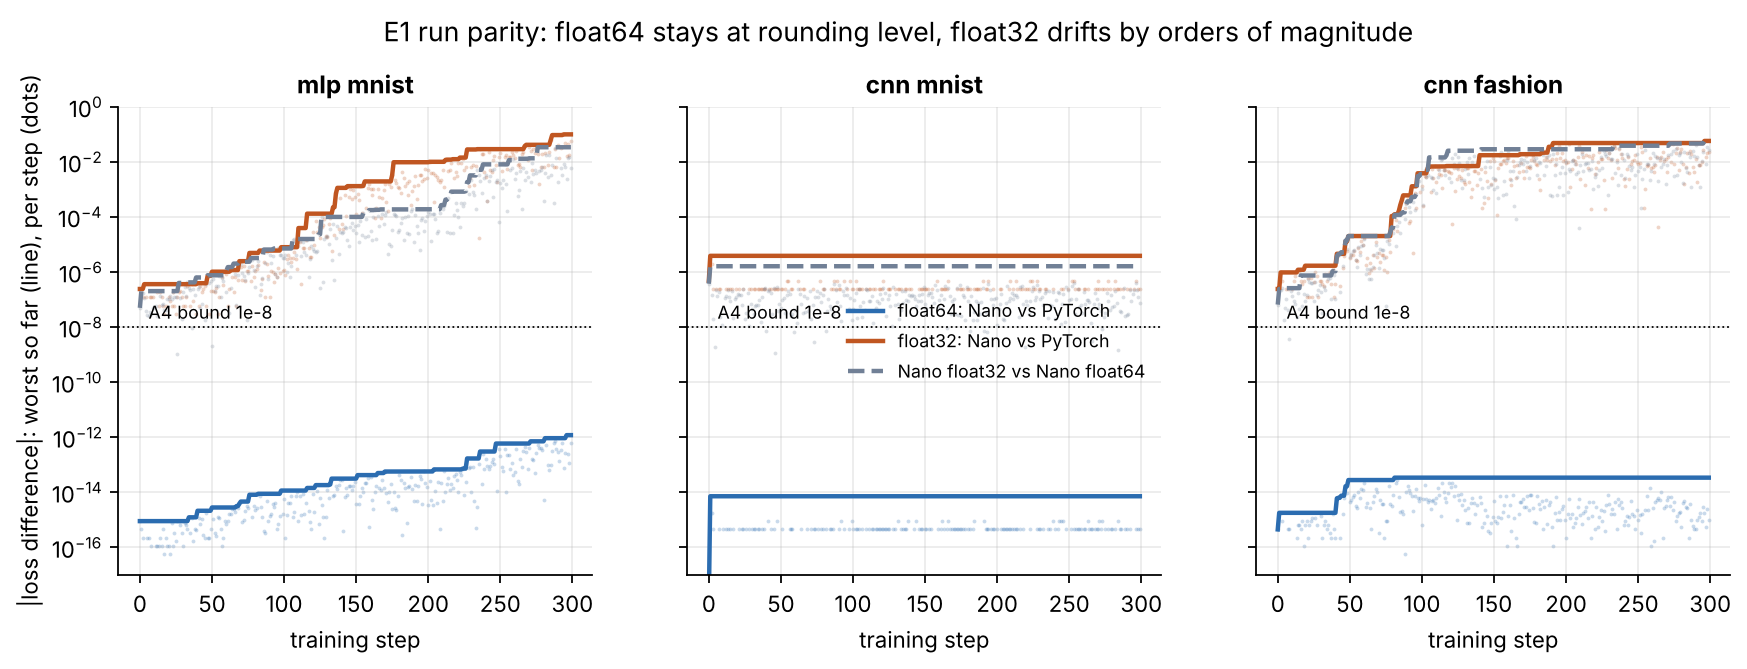
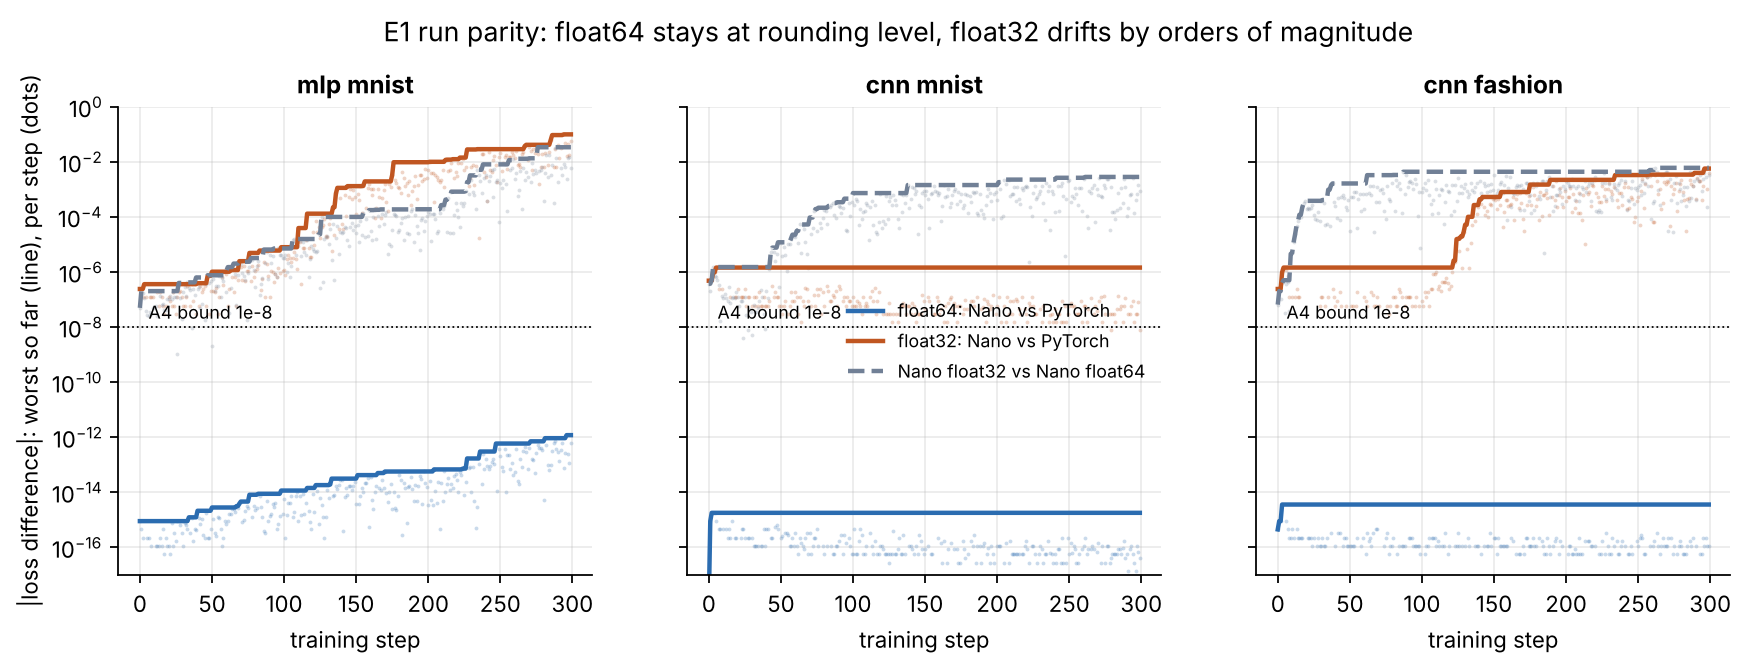
E1 CNN parity at lr 0.01 (0.05 killed every ReLU, D-07); E6 compares nonlinear ops with theory; report formatting
CNN now reaches 95.0% (MNIST) / 83.5% (Fashion) during the parity run with float64
loss parity ~1e-15. E6 measured optimum 1.2e-5 vs theory 8.7e-6 (float64).

Claude-Session: https://claude.ai/code/session_0167vbQ3SCYivtCTL22GZ5wF

diff --git a/report/build.py b/report/build.py
@@ -27,6 +27,8 @@ def f(x, digits: int = 2) -> str:
         return f"{x:,}"
     if x == 0:
         return "0"
+    if math.isfinite(x) and float(x).is_integer() and 1 <= abs(x) < 1e5:
+        return f"{int(x):,}"
     if not math.isfinite(x):
         return "∞" if x > 0 else ("-∞" if x < 0 else "NaN")
     if abs(x) < 1e-3 or abs(x) >= 1e5:
@@ -40,6 +42,14 @@ def ci(m: dict, digits: int = 3) -> str:
     c = m.get("ci")
     s = f(m["value"], digits)
     return f"{s} [{f(c[0], digits)}, {f(c[1], digits)}]" if c else s
+
+
+def ci_pp(m: dict) -> str:
+    """A difference in accuracy, shown in percentage points."""
+    if not m or m.get("value") is None:
+        return "n/a"
+    lo, hi = m["ci"]
+    return f"{100 * m['value']:+.2f} pp [{100 * lo:+.2f}, {100 * hi:+.2f}]"
 
 
 def pct(x) -> str:
@@ -190,7 +200,7 @@ section 2 lists each op's max error.
 correct, so the model still trains. A whole-model gradcheck notices *that* something is
 wrong (large relative error) but not *where*. The layerwise checker re-runs every tape node's
 op in isolation against finite differences, in forward order, and names the first one that
-disagrees. Result: **{f(get('E4', 'metrics', 'bugs_located', 'value'))} of 5 located**; the bug-free control passes
+disagrees. Result: **{int(get('E4', 'metrics', 'bugs_located', 'value'))} of 5 located**; the bug-free control passes
 every op.
 
 {table(["Bug", "Injected defect", "Expected", "Checker names", "Whole-model rel. err", "Located"], rows)}
@@ -308,11 +318,11 @@ def e3() -> str:
     rows = [[r["optimizer"], r["init"], r["schedule"], ci(r["test_acc"]),
              f"{f(r['steps_to_target']['value'])} [{f(r['steps_to_target']['iqr'][0])}, {f(r['steps_to_target']['iqr'][1])}]",
              r["n_censored"]] for r in sorted(t["configs"], key=lambda r: -r["test_acc"]["value"])]
-    con = [[c["factor"], f"{c['level']} − {c['reference']}", ci(c["acc_diff"], 4),
-            ci(c.get("acc_diff_seed_cluster"), 4), f(c.get("p_sign_flip_seed_level")),
+    con = [[c["factor"], f"{c['level']} − {c['reference']}", ci_pp(c["acc_diff"]),
+            ci_pp(c.get("acc_diff_seed_cluster")), f(c.get("p_sign_flip_seed_level")),
             "**yes**" if c["separated"] else "no"] for c in t["contrasts"]]
     sep = [c for c in t["contrasts"] if c["separated"]]
-    mattered = "; ".join(f"{c['level']} vs {c['reference']} ({c['factor']}): {f(c['acc_diff']['value'] * 100, 2)} points"
+    mattered = "; ".join(f"{c['level']} vs {c['reference']} ({c['factor']}): {100 * c['acc_diff']['value']:+.2f} points"
                          for c in sorted(sep, key=lambda c: -abs(c["acc_diff"]["value"]))) or "no contrast was separated"
     return f"""## 5. Optimizers, inits and schedules (E3)
 
@@ -348,7 +358,8 @@ def failures() -> str:
     F = X.get("FAILURES", {})
     t = F.get("tables", {})
     f2, f3, f4 = t.get("F2", {}), t.get("F3", {}), t.get("F4", {})
-    f3rows = [[lr, ci(r["dead_final"])] for lr, r in f3.get("results", {}).items()]
+    f3rows = [[lr, ci(r["dead_final"]) if r["dead_final"].get("value") is not None else "—",
+               f"{r.get('diverged_seeds', 0)}/3"] for lr, r in f3.get("results", {}).items()]
     return f"""## 8. Failure gallery
 
 Every way the engine and the networks go wrong, measured.
@@ -366,7 +377,12 @@ The fused, max-shifted version stays finite at every scale tested (derivation D7
 **F3. Dead ReLUs at high learning rate.** A 4 × 128 ReLU MLP (He init), plain SGD, {f3.get('steps')} steps.
 Fraction of units dead on 512 training images (worst layer), mean of 3 seeds [bootstrap CI]:
 
-{table(["Learning rate", "Dead fraction at end"], f3rows)}
+{table(["Learning rate", "Dead fraction at end (surviving seeds)", "Seeds whose loss became NaN"], f3rows)}
+
+At lr 0.4 about half the units in the worst layer are permanently dead, yet the loss stays finite and the
+network keeps learning with what is left; one step further (0.5) every seed diverges within the first steps.
+The same failure appeared unplanned in E1, where a CNN at lr 0.05 with momentum lost every ReLU
+([DEVIATIONS.md](../docs/DEVIATIONS.md), D-07).
 
 {fig('figures/f3_dead_relus.png', 'dead ReLUs')}
 

diff --git a/experiments/fd_error.py b/experiments/fd_error.py
@@ -20,6 +20,7 @@ from nano.gradcheck import H_DEFAULT, numerical_grad, rel_error
 
 OPS = ["exp", "tanh", "sigmoid", "log", "matmul", "logsumexp", "softmax_cross_entropy", "conv2d"]
 GRID = {"float64": np.logspace(-1, -13, 25), "float32": np.logspace(-0.5, -7, 14)}
+LINEAR = {"matmul", "conv2d"}
 EPS = {"float64": np.finfo(np.float64).eps, "float32": np.finfo(np.float32).eps}
 
 
@@ -51,8 +52,11 @@ def main():
             table[c.name][dname] = {"h": GRID[dname].tolist(), "rel_err": errs,
                                     "best_h": float(GRID[dname][best]), "best_err": float(errs[best])}
             print(f"  {c.name:22s} {dname}: best h {GRID[dname][best]:.1e}  err {errs[best]:.1e}", flush=True)
-    best64 = np.array([table[o]["float64"]["best_h"] for o in table])
-    best32 = np.array([table[o]["float32"]["best_h"] for o in table])
+    # linear ops (matmul, conv2d) have no truncation error, so their best h is just the largest h in the grid:
+    # the geometric mean that is compared with theory uses the nonlinear ops only
+    nonlinear = [o for o in table if o not in LINEAR]
+    best64 = np.array([table[o]["float64"]["best_h"] for o in nonlinear])
+    best32 = np.array([table[o]["float32"]["best_h"] for o in nonlinear])
     at_default = [float(np.interp(np.log10(H_DEFAULT), np.log10(table[o]["float64"]["h"][::-1]),
                                   table[o]["float64"]["rel_err"][::-1])) for o in table]
     fig = figure(table)
@@ -60,8 +64,10 @@ def main():
         "title": "E6 finite-difference error vs step size h",
         "config": {"ops": OPS, "grid": {k: v.tolist() for k, v in GRID.items()}, "reference": "float64 analytic VJP"},
         "metrics": {
-            "best_h_float64_geomean": evalkit.metric(float(10 ** np.mean(np.log10(best64))), n=len(best64)),
-            "best_h_float32_geomean": evalkit.metric(float(10 ** np.mean(np.log10(best32))), n=len(best32)),
+            "best_h_float64_geomean": evalkit.metric(float(10 ** np.mean(np.log10(best64))), n=len(best64),
+                                                     method="geometric mean over nonlinear ops"),
+            "best_h_float32_geomean": evalkit.metric(float(10 ** np.mean(np.log10(best32))), n=len(best32),
+                                                     method="geometric mean over nonlinear ops"),
             "theory_h_float64": evalkit.metric(float((3 * EPS["float64"]) ** (1 / 3)), method="(3 eps)^(1/3)"),
             "theory_h_float32": evalkit.metric(float((3 * EPS["float32"]) ** (1 / 3)), method="(3 eps)^(1/3)"),
             "max_err_at_default_h": evalkit.metric(max(at_default), n=len(at_default), method=f"h = {H_DEFAULT:g}"),

diff --git a/experiments/parity.py b/experiments/parity.py
@@ -65,8 +65,8 @@ def make_cnn(rng):
 
 SETUPS = {  # name: (builder, dataset, flat, batch, lr)
     "mlp_mnist": (make_mlp, "mnist", True, 64, 0.05),
-    "cnn_mnist": (make_cnn, "mnist", False, 64, 0.05),
-    "cnn_fashion": (make_cnn, "fashion", False, 64, 0.05),
+    "cnn_mnist": (make_cnn, "mnist", False, 64, 0.01),  # 0.05 killed every ReLU (docs/DEVIATIONS.md D-07)
+    "cnn_fashion": (make_cnn, "fashion", False, 64, 0.01),
 }
 
 
@@ -145,7 +145,7 @@ def main():
     }
     evalkit.write_fragment("E1", {
         "title": "E1 parity vs PyTorch: per op, per step, per run; float64 and float32",
-        "config": {"run_steps": RUN_STEPS, "optimizer": "SGD momentum 0.9", "seed": SEED, "torch_threads": 1,
+        "config": {"run_steps": RUN_STEPS, "optimizer": "SGD momentum 0.9 (lr per setup below)", "seed": SEED, "torch_threads": 1,
                    "setups": {k: {"dataset": v[1], "batch": v[3], "lr": v[4]} for k, v in SETUPS.items()}},
         "metrics": metrics, "tables": {"ops": ops, "runs": runs}, "figures": figures,
         "runtime_s": time.perf_counter() - t0,

diff --git a/report/REPORT.md b/report/REPORT.md
@@ -9,8 +9,8 @@ format:
 
 # Nano: a NumPy neural engine, verified and then broken on purpose
 
-*Project 1A. Generated from [`results.json`](results.json) (schema 1.0, commit `e021997a98`,
-2026-11-06T10:09:59+00:00). Hardware: Intel(R) Xeon(R) Processor @ 2.10GHz, 4 cores, 15.7 GB RAM, Linux 6.18.44-fc-v242;
+*Project 1A. Generated from [`results.json`](results.json) (schema 1.0, commit `634f287fd4`,
+2026-11-06T10:12:04+00:00). Hardware: Intel(R) Xeon(R) Processor @ 2.10GHz, 4 cores, 15.7 GB RAM, Linux 6.18.44-fc-v242;
 Python 3.13.18, NumPy 2.5.3 (scipy-openblas 0.3.34.106.0), PyTorch 2.15.0 (oracle only).*
 
 ## Acceptance criteria
@@ -72,8 +72,8 @@ that is the drift a float32 "matches PyTorch" claim has to live with, shown rath
 | Setup | f64: 1-step param diff | f64: max loss diff (300 steps) | f32: 1-step param diff | f32: max loss diff | Nano f32 vs Nano f64 | test acc. after run (f64) |
 |---|---|---|---|---|---|---|
 | mlp mnist | 5.55e-17 | 1.18e-12 | 2.98e-8 | 0.0982 | 0.0335 | 93.6% |
-| cnn mnist | 1.11e-16 | 7.11e-15 | 7.45e-8 | 3.81e-6 | 1.60e-6 | 11.3% |
-| cnn fashion | 1.11e-16 | 3.36e-14 | 1.19e-7 | 0.0567 | 0.0557 | 77.7% |
+| cnn mnist | 1.11e-16 | 1.78e-15 | 2.98e-8 | 1.43e-6 | 0.0028 | 95.0% |
+| cnn fashion | 1.11e-16 | 3.55e-15 | 1.19e-7 | 0.00563 | 0.00599 | 83.5% |
 
 ![float32 drift](figures/e1_float32_drift.png)
 
@@ -131,7 +131,7 @@ section 2 lists each op's max error.
 correct, so the model still trains. A whole-model gradcheck notices *that* something is
 wrong (large relative error) but not *where*. The layerwise checker re-runs every tape node's
 op in isolation against finite differences, in forward order, and names the first one that
-disagrees. Result: **5.00 of 5 located**; the bug-free control passes
+disagrees. Result: **5 of 5 located**; the bug-free control passes
 every op.
 
 | Bug | Injected defect | Expected | Checker names | Whole-model rel. err | Located |
@@ -170,8 +170,8 @@ first bad op: conv2d in Sequential/3:Conv2d
 **Finite-difference error vs step size (E6).** Central differences trade truncation error
 (∝ h²) against rounding error (∝ ε/h), giving a U-curve with its minimum near
 h* = (3ε)^(1/3) (derivation D11). Measured best h, geometric mean over ops:
-1.15e-4 in float64 (theory 8.73e-6)
-and 0.0205 in float32 (theory 0.0071).
+1.21e-5 in float64 (theory 8.73e-6)
+and 0.00825 in float32 (theory 0.0071).
 At the gradcheck step h = 1e-6 the worst op error is 1.17e-9, inside the A1
 bound of 1e-7. Linear ops (matmul, conv) have no truncation term, so their curves only rise.
 In float32 no step size certifies a gradient to better than about 1e-5, which is why the
@@ -282,7 +282,7 @@ configuration, test accuracy on 2,000 held-out images. Each optimizer uses one
 standard learning rate fixed in advance (SGD 0.1; momentum/Nesterov 0.01 with μ = 0.9; Adam/AdamW 1e-3).
 Only differences whose paired 95% CIs (run-level and seed-clustered) both exclude zero are claimed.
 
-**What actually mattered.** small vs he (init): -2.05 points; warmup_cosine vs constant (schedule): -0.91 points; cosine vs constant (schedule): -0.902 points; adamw vs sgd (optimizer): 0.811 points; adam vs sgd (optimizer): 0.791 points; momentum vs sgd (optimizer): -0.257 points; nesterov vs sgd (optimizer): -0.256 points.
+**What actually mattered.** small vs he (init): -2.05 points; warmup_cosine vs constant (schedule): -0.91 points; cosine vs constant (schedule): -0.90 points; adamw vs sgd (optimizer): +0.81 points; adam vs sgd (optimizer): +0.79 points; momentum vs sgd (optimizer): -0.26 points; nesterov vs sgd (optimizer): -0.26 points.
 
 **Reading E3.** The ranking is dominated by initialisation: small init costs the most and interacts with the schedule. With small init the network starts slowly, and a cosine schedule lowers the learning rate before it has recovered, so the cosine penalty is concentrated in the small-init bars. Adam and AdamW beat SGD at this budget; momentum and Nesterov at learning rate 0.01 (effective step 0.1) slightly trail plain SGD at 0.1. Xavier and He are not separated once seeds are treated as the unit of replication. All of this is specific to a short 1,000-step budget and one fixed learning rate per optimizer.
 
@@ -292,14 +292,14 @@ Paired contrasts (each run paired with the reference-level run that shares its s
 
 | Factor | Contrast | Δ test acc. [95% CI, run pairs] | [95% CI, seed-clustered] | sign-flip p (5 seeds) | Separated |
 |---|---|---|---|---|---|
-| optimizer | momentum − sgd | -0.0025667 [-0.0034111, -0.0016778] | -0.0025667 [-0.0034889, -0.0015556] | 0.0625 | **yes** |
-| optimizer | nesterov − sgd | -0.0025556 [-0.0036111, -0.0014556] | -0.0025556 [-0.0038111, -0.0013] | 0.0625 | **yes** |
-| optimizer | adam − sgd | 0.0079111 [0.0056222, 0.010278] | 0.0079111 [0.0060111, 0.0098222] | 0.0625 | **yes** |
-| optimizer | adamw − sgd | 0.0081111 [0.0058, 0.010522] | 0.0081111 [0.0063333, 0.0098333] | 0.0625 | **yes** |
-| init | small − he | -0.020473 [-0.023247, -0.017767] | -0.020473 [-0.022153, -0.018713] | 0.0625 | **yes** |
-| init | xavier − he | 0.0010133 [2.6000e-4, 0.0017333] | 0.0010133 [-2.6667e-4, 0.0024133] | 0.5 | no |
-| schedule | cosine − constant | -0.00902 [-0.011427, -0.00682] | -0.00902 [-0.0094533, -0.0085867] | 0.0625 | **yes** |
-| schedule | warmup_cosine − constant | -0.0091 [-0.01144, -0.0069533] | -0.0091 [-0.00962, -0.0085667] | 0.0625 | **yes** |
+| optimizer | momentum − sgd | -0.26 pp [-0.34, -0.17] | -0.26 pp [-0.35, -0.16] | 0.0625 | **yes** |
+| optimizer | nesterov − sgd | -0.26 pp [-0.36, -0.15] | -0.26 pp [-0.38, -0.13] | 0.0625 | **yes** |
+| optimizer | adam − sgd | +0.79 pp [+0.56, +1.03] | +0.79 pp [+0.60, +0.98] | 0.0625 | **yes** |
+| optimizer | adamw − sgd | +0.81 pp [+0.58, +1.05] | +0.81 pp [+0.63, +0.98] | 0.0625 | **yes** |
+| init | small − he | -2.05 pp [-2.32, -1.78] | -2.05 pp [-2.22, -1.87] | 0.0625 | **yes** |
+| init | xavier − he | +0.10 pp [+0.03, +0.17] | +0.10 pp [-0.03, +0.24] | 0.5 | no |
+| schedule | cosine − constant | -0.90 pp [-1.14, -0.68] | -0.90 pp [-0.95, -0.86] | 0.0625 | **yes** |
+| schedule | warmup_cosine − constant | -0.91 pp [-1.14, -0.70] | -0.91 pp [-0.96, -0.86] | 0.0625 | **yes** |
 
 A contrast is claimed only when both CIs exclude zero. With five seeds the exact sign-flip test
 cannot go below p = 0.0625, so it is shown for transparency rather than used as the gate.
@@ -308,51 +308,51 @@ cannot go below p = 0.0625, so it is shown for transparency rather than used as 
 
 | Optimizer | Init | Schedule | Test acc. [95% CI] | Steps to EMA loss ≤ 0.3, median [IQR] | Runs never reaching it |
 |---|---|---|---|---|---|
-| adam | xavier | constant | 0.9549 [0.9529, 0.9572] | 83.00 [81.00, 86.00] | 0 |
-| adamw | xavier | constant | 0.9535 [0.9503, 0.9563] | 83.00 [81.00, 86.00] | 0 |
-| adam | he | constant | 0.9532 [0.9492, 0.9569] | 82.00 [82.00, 86.00] | 0 |
-| adamw | he | constant | 0.9527 [0.9506, 0.9547] | 82.00 [81.00, 86.00] | 0 |
-| adamw | xavier | warmup_cosine | 0.952 [0.9493, 0.9546] | 94.00 [92.00, 100.00] | 0 |
-| adamw | xavier | cosine | 0.9519 [0.9503, 0.9535] | 83.00 [81.00, 86.00] | 0 |
-| adam | xavier | warmup_cosine | 0.9515 [0.9493, 0.9539] | 94.00 [92.00, 100.00] | 0 |
-| adam | xavier | cosine | 0.9504 [0.9479, 0.9529] | 83.00 [82.00, 86.00] | 0 |
-| nesterov | xavier | constant | 0.9501 [0.948, 0.9525] | 90.00 [88.00, 96.00] | 0 |
-| adam | he | cosine | 0.9501 [0.9478, 0.9529] | 82.00 [81.00, 86.00] | 0 |
-| adamw | he | cosine | 0.9497 [0.9467, 0.9524] | 83.00 [81.00, 86.00] | 0 |
-| adamw | he | warmup_cosine | 0.9494 [0.9461, 0.9533] | 93.00 [93.00, 97.00] | 0 |
-| sgd | xavier | constant | 0.9494 [0.9473, 0.9525] | 94.00 [90.00, 95.00] | 0 |
-| momentum | xavier | constant | 0.9488 [0.9473, 0.9507] | 94.00 [92.00, 97.00] | 0 |
-| sgd | he | constant | 0.9487 [0.9458, 0.9512] | 84.00 [84.00, 87.00] | 0 |
-| adam | he | warmup_cosine | 0.9482 [0.9453, 0.952] | 93.00 [93.00, 97.00] | 0 |
-| nesterov | he | constant | 0.9476 [0.9448, 0.9504] | 84.00 [83.00, 88.00] | 0 |
-| sgd | he | cosine | 0.9475 [0.9447, 0.9504] | 84.00 [84.00, 87.00] | 0 |
-| momentum | he | constant | 0.9474 [0.9446, 0.9496] | 88.00 [88.00, 91.00] | 0 |
-| sgd | he | warmup_cosine | 0.9468 [0.9443, 0.9494] | 104.00 [102.00, 105.00] | 0 |
-| nesterov | xavier | cosine | 0.9455 [0.9444, 0.9464] | 90.00 [88.00, 96.00] | 0 |
-| sgd | xavier | cosine | 0.9455 [0.9429, 0.9472] | 94.00 [90.00, 95.00] | 0 |
-| sgd | xavier | warmup_cosine | 0.9447 [0.9427, 0.946] | 129.00 [125.00, 134.00] | 0 |
-| momentum | he | warmup_cosine | 0.9446 [0.9429, 0.9461] | 94.00 [93.00, 99.00] | 0 |
-| momentum | xavier | cosine | 0.9445 [0.9425, 0.9463] | 94.00 [92.00, 97.00] | 0 |
-| nesterov | he | cosine | 0.9441 [0.9417, 0.9464] | 84.00 [83.00, 88.00] | 0 |
-| nesterov | xavier | warmup_cosine | 0.9441 [0.942, 0.9466] | 105.00 [104.00, 117.00] | 0 |
-| momentum | xavier | warmup_cosine | 0.9439 [0.9421, 0.945] | 117.00 [109.00, 124.00] | 0 |
-| momentum | he | cosine | 0.9437 [0.9402, 0.9465] | 88.00 [88.00, 91.00] | 0 |
-| adamw | small | constant | 0.9433 [0.9419, 0.9452] | 191.00 [188.00, 198.00] | 0 |
-| adam | small | constant | 0.9432 [0.9405, 0.9458] | 191.00 [188.00, 198.00] | 0 |
-| nesterov | he | warmup_cosine | 0.9418 [0.9397, 0.9444] | 91.00 [91.00, 96.00] | 0 |
-| sgd | small | constant | 0.9395 [0.9378, 0.9412] | 398.00 [380.00, 401.00] | 0 |
-| nesterov | small | constant | 0.9388 [0.9375, 0.9403] | 436.00 [421.00, 454.00] | 0 |
-| momentum | small | constant | 0.9377 [0.9362, 0.9392] | 460.00 [436.00, 466.00] | 0 |
-| adamw | small | warmup_cosine | 0.9367 [0.9348, 0.938] | 222.00 [216.00, 223.00] | 0 |
-| adam | small | warmup_cosine | 0.9362 [0.9348, 0.9373] | 222.00 [216.00, 223.00] | 0 |
-| adamw | small | cosine | 0.9351 [0.9333, 0.9368] | 199.00 [194.00, 200.00] | 0 |
-| adam | small | cosine | 0.9348 [0.9333, 0.9363] | 199.00 [194.00, 200.00] | 0 |
-| sgd | small | warmup_cosine | 0.9148 [0.9136, 0.916] | 439.00 [421.00, 461.00] | 0 |
-| sgd | small | cosine | 0.9144 [0.9132, 0.9156] | 436.00 [420.00, 460.00] | 0 |
-| momentum | small | warmup_cosine | 0.9091 [0.9065, 0.9117] | 510.00 [485.00, 511.00] | 0 |
-| momentum | small | cosine | 0.9085 [0.906, 0.911] | 510.00 [485.00, 511.00] | 0 |
-| nesterov | small | warmup_cosine | 0.9085 [0.906, 0.911] | 510.00 [485.00, 511.00] | 0 |
-| nesterov | small | cosine | 0.9078 [0.9054, 0.9102] | 498.00 [483.00, 510.00] | 0 |
+| adam | xavier | constant | 0.9549 [0.9529, 0.9572] | 83 [81, 86] | 0 |
+| adamw | xavier | constant | 0.9535 [0.9503, 0.9563] | 83 [81, 86] | 0 |
+| adam | he | constant | 0.9532 [0.9492, 0.9569] | 82 [82, 86] | 0 |
+| adamw | he | constant | 0.9527 [0.9506, 0.9547] | 82 [81, 86] | 0 |
+| adamw | xavier | warmup_cosine | 0.952 [0.9493, 0.9546] | 94 [92, 100] | 0 |
+| adamw | xavier | cosine | 0.9519 [0.9503, 0.9535] | 83 [81, 86] | 0 |
+| adam | xavier | warmup_cosine | 0.9515 [0.9493, 0.9539] | 94 [92, 100] | 0 |
+| adam | xavier | cosine | 0.9504 [0.9479, 0.9529] | 83 [82, 86] | 0 |
+| nesterov | xavier | constant | 0.9501 [0.948, 0.9525] | 90 [88, 96] | 0 |
+| adam | he | cosine | 0.9501 [0.9478, 0.9529] | 82 [81, 86] | 0 |
+| adamw | he | cosine | 0.9497 [0.9467, 0.9524] | 83 [81, 86] | 0 |
+| adamw | he | warmup_cosine | 0.9494 [0.9461, 0.9533] | 93 [93, 97] | 0 |
+| sgd | xavier | constant | 0.9494 [0.9473, 0.9525] | 94 [90, 95] | 0 |
+| momentum | xavier | constant | 0.9488 [0.9473, 0.9507] | 94 [92, 97] | 0 |
+| sgd | he | constant | 0.9487 [0.9458, 0.9512] | 84 [84, 87] | 0 |
+| adam | he | warmup_cosine | 0.9482 [0.9453, 0.952] | 93 [93, 97] | 0 |
+| nesterov | he | constant | 0.9476 [0.9448, 0.9504] | 84 [83, 88] | 0 |
+| sgd | he | cosine | 0.9475 [0.9447, 0.9504] | 84 [84, 87] | 0 |
+| momentum | he | constant | 0.9474 [0.9446, 0.9496] | 88 [88, 91] | 0 |
+| sgd | he | warmup_cosine | 0.9468 [0.9443, 0.9494] | 104 [102, 105] | 0 |
+| nesterov | xavier | cosine | 0.9455 [0.9444, 0.9464] | 90 [88, 96] | 0 |
+| sgd | xavier | cosine | 0.9455 [0.9429, 0.9472] | 94 [90, 95] | 0 |
+| sgd | xavier | warmup_cosine | 0.9447 [0.9427, 0.946] | 129 [125, 134] | 0 |
+| momentum | he | warmup_cosine | 0.9446 [0.9429, 0.9461] | 94 [93, 99] | 0 |
+| momentum | xavier | cosine | 0.9445 [0.9425, 0.9463] | 94 [92, 97] | 0 |
+| nesterov | he | cosine | 0.9441 [0.9417, 0.9464] | 84 [83, 88] | 0 |
+| nesterov | xavier | warmup_cosine | 0.9441 [0.942, 0.9466] | 105 [104, 117] | 0 |
+| momentum | xavier | warmup_cosine | 0.9439 [0.9421, 0.945] | 117 [109, 124] | 0 |
+| momentum | he | cosine | 0.9437 [0.9402, 0.9465] | 88 [88, 91] | 0 |
+| adamw | small | constant | 0.9433 [0.9419, 0.9452] | 191 [188, 198] | 0 |
+| adam | small | constant | 0.9432 [0.9405, 0.9458] | 191 [188, 198] | 0 |
+| nesterov | he | warmup_cosine | 0.9418 [0.9397, 0.9444] | 91 [91, 96] | 0 |
+| sgd | small | constant | 0.9395 [0.9378, 0.9412] | 398 [380, 401] | 0 |
+| nesterov | small | constant | 0.9388 [0.9375, 0.9403] | 436 [421, 454] | 0 |
+| momentum | small | constant | 0.9377 [0.9362, 0.9392] | 460 [436, 466] | 0 |
+| adamw | small | warmup_cosine | 0.9367 [0.9348, 0.938] | 222 [216, 223] | 0 |
+| adam | small | warmup_cosine | 0.9362 [0.9348, 0.9373] | 222 [216, 223] | 0 |
+| adamw | small | cosine | 0.9351 [0.9333, 0.9368] | 199 [194, 200] | 0 |
+| adam | small | cosine | 0.9348 [0.9333, 0.9363] | 199 [194, 200] | 0 |
+| sgd | small | warmup_cosine | 0.9148 [0.9136, 0.916] | 439 [421, 461] | 0 |
+| sgd | small | cosine | 0.9144 [0.9132, 0.9156] | 436 [420, 460] | 0 |
+| momentum | small | warmup_cosine | 0.9091 [0.9065, 0.9117] | 510 [485, 511] | 0 |
+| momentum | small | cosine | 0.9085 [0.906, 0.911] | 510 [485, 511] | 0 |
+| nesterov | small | warmup_cosine | 0.9085 [0.906, 0.911] | 510 [485, 511] | 0 |
+| nesterov | small | cosine | 0.9078 [0.9054, 0.9102] | 498 [483, 510] | 0 |
 
 </details>
 
@@ -387,13 +387,18 @@ The fused, max-shifted version stays finite at every scale tested (derivation D7
 **F3. Dead ReLUs at high learning rate.** A 4 × 128 ReLU MLP (He init), plain SGD, 400 steps.
 Fraction of units dead on 512 training images (worst layer), mean of 3 seeds [bootstrap CI]:
 
-| Learning rate | Dead fraction at end |
-|---|---|
-| 0.01 | 0.05208 [0.03906, 0.0625] |
-| 0.1 | 0.01562 [0.01562, 0.01562] |
-| 0.3 | 0.06641 [0.05469, 0.07812] |
-| 0.4 | 0.4844 [0.4844, 0.4844] |
-| 0.5 | n/a |
+| Learning rate | Dead fraction at end (surviving seeds) | Seeds whose loss became NaN |
+|---|---|---|
+| 0.01 | 0.05208 [0.03906, 0.0625] | 0/3 |
+| 0.1 | 0.01562 [0.01562, 0.01562] | 0/3 |
+| 0.3 | 0.06641 [0.05469, 0.07812] | 1/3 |
+| 0.4 | 0.4844 [0.4844, 0.4844] | 2/3 |
+| 0.5 | — | 3/3 |
+
+At lr 0.4 about half the units in the worst layer are permanently dead, yet the loss stays finite and the
+network keeps learning with what is left; one step further (0.5) every seed diverges within the first steps.
+The same failure appeared unplanned in E1, where a CNN at lr 0.05 with momentum lost every ReLU
+([DEVIATIONS.md](../docs/DEVIATIONS.md), D-07).
 
 ![dead ReLUs](figures/f3_dead_relus.png)
 

diff --git a/docs/DEVIATIONS.md b/docs/DEVIATIONS.md
@@ -11,3 +11,4 @@ appended, never edited away.
 | D-04 | 2026-11-06 | Handwritten derivation scans are not yet in `report/derivations/scans/`; the typeset derivations are complete. | Scans must be made by the author on paper. | Rung 1 of the ladder is documented in typeset form only until scans are added. |
 | D-05 | 2026-11-06 | Published numbers were produced on a 4-core cloud container (Intel Xeon @ 2.10 GHz), not the HP Omen 16 laptop named in the PRD. | The build environment for this run. Hardware is recorded in every results fragment. | Timings (E5) are specific to this machine; `make repro` on the laptop regenerates them. All correctness results are hardware independent at the stated tolerances. |
 | D-06 | 2026-11-06 | The report is rendered to Markdown by `report/build.py`; Quarto renders the same file to HTML when installed (it was not installed in the build environment). | PRD open question 4 (report toolchain). | None on content. |
+| D-07 | 2026-11-06 | E1 CNN parity runs use SGD-momentum lr 0.01 instead of the 0.05 first used. | Report review found the MNIST CNN at 11% test accuracy after the run: at lr 0.05 every ReLU died within ~25 steps (failure F3 again). Parity was unaffected (both engines died identically, loss diff 7e-15), but a dead network is a poor parity witness. | A3/A4 still pass; the CNN now actually learns during the parity run. Not part of E2. |
